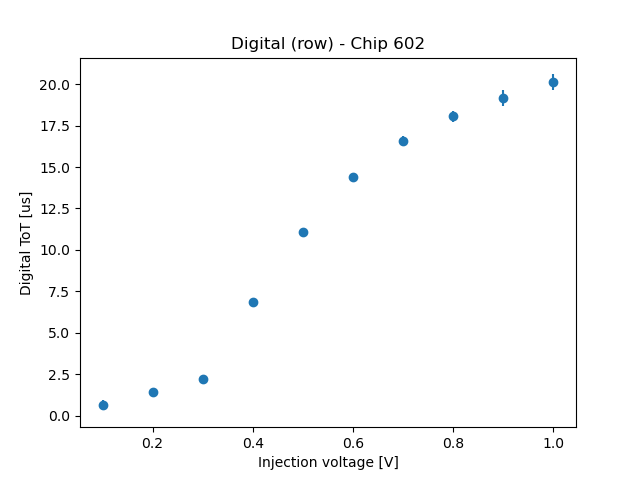
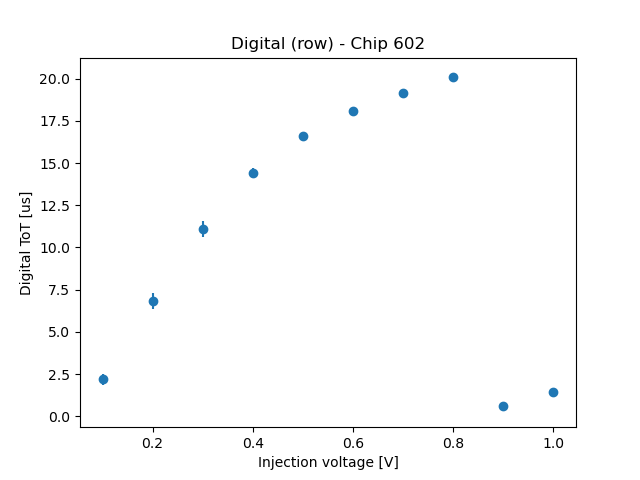
Fix bug in injection scan that mismatches digital ToT means from injection voltage

diff --git a/analysisScripts/injScans.py b/analysisScripts/injScans.py
@@ -175,10 +175,13 @@ def main(chip):
 		mean,sig = fitGauss(dfDict[df]['ToT(us)_row'], float(df.split('_')[1]))
 		digitalMeans.append(mean)
 		digitalSigs.append(sig)
-	pltInjScan(sorted(digitalMeans), sorted(injs), sorted(digitalSigs),"Digital (row)")	
+	#Sort means/sigmas with respect to injs
+	digitalMeans_sorted = [x for _,x in sorted(zip(injs,digitalMeans))]
+	digitalSigs_sorted = [x for _,x in sorted(zip(injs,digitalSigs))]
+	pltInjScan(digitalMeans_sorted, sorted(injs), digitalSigs_sorted,"Digital (row)")	
 		
 	#Compare scans
-	compareInjScans(analogMeans, sorted(digitalMeans), sorted(injs), analogSigs, sorted(digitalSigs))
+	compareInjScans(analogMeans, digitalMeans_sorted, sorted(injs), analogSigs, digitalSigs_sorted)
 	
 #################################################################
 # call main
